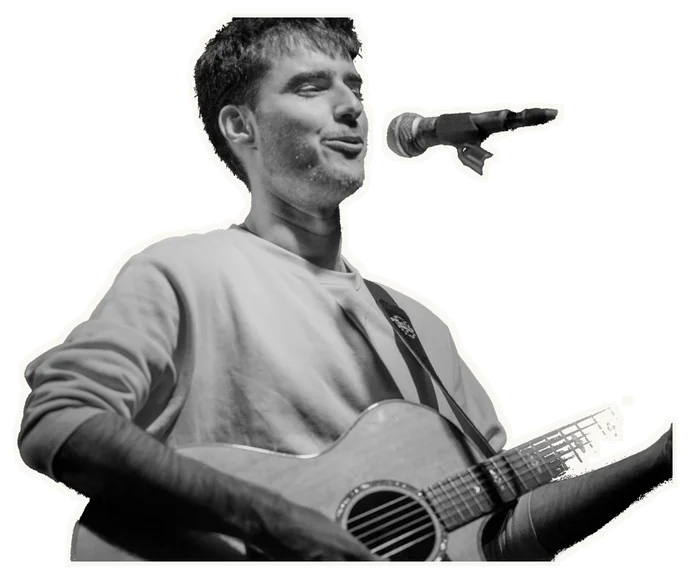
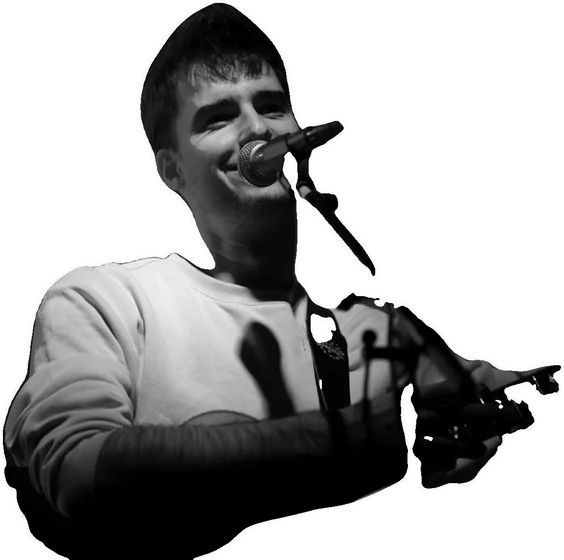
Venue: album line with Listen, single titles, tighter phone spacing, new stage photo
Claude-Session: https://claude.ai/code/session_01RtvS5V4MTS71N2RPp1urB8

diff --git a/index.html b/index.html
@@ -46,7 +46,7 @@
         <img class="bg" src="assets/venue/desktop/A1-bg.webp" alt="Paper diorama of a small venue at dusk: a brick wall covered in posters of Knaan Shabtay and a glowing open door" width="1920" height="1080">
         <img class="layer fg" data-l="A1-fg" src="assets/venue/desktop/A1-fg.webp" alt="">
       </div></div>
-      <div class="hero-type"><p class="name">Knaan Shabtay</p><h1>Teaching paper birds to fly</h1></div>
+      <div class="hero-type"><p class="name">Knaan Shabtay</p><h1>Teaching Paper Birds to Fly</h1><p class="album">New album out now · <button type="button" class="listen" data-rec="tpbtf">Listen</button></p></div>
       <p class="cue">Scroll ↓</p>
     </section>
     <!-- S2 Inside = Videos -->
@@ -55,7 +55,7 @@
         <img class="bg" src="assets/venue/desktop/A2-bg.webp" alt="Paper theatre stage with soft light cones and a paper crowd" loading="lazy" width="1920" height="1080">
         <img class="layer mid" data-l="A2-hero-still" src="assets/venue/desktop/A2-hero-still.webp" alt="Knaan Shabtay singing with an acoustic guitar" loading="lazy">
         <div class="vpanel inplate"><div class="paper"></div><span class="tape l"></span><span class="tape r"></span>
-          <div class="in"><div><p class="kicker">Videos</p><h2 class="h1">Videos</h2></div><div class="player" data-player></div><div class="upnext" data-upnext></div></div>
+          <div class="in"><div><h2 class="h1">Videos</h2></div><div class="player" data-player></div><div class="upnext" data-upnext></div></div>
         </div>
         <div class="ink"></div>
       </div></div>
@@ -67,7 +67,7 @@
         <div class="board inplate rv" data-l="A3-board"><div class="bitbox" data-bit><div class="bit-row"><span>Bandsintown</span><a href="https://www.bandsintown.com/a/2039791-knaan-shabtay" target="_blank" rel="noopener">Follow on Bandsintown</a></div><div class="bit-slot"></div><div class="bit-fallback"><p>Tour dates load from Bandsintown.</p><small>Follow to hear about the next show.</small></div></div></div>
         <img class="layer fg" data-l="A3-fg" src="assets/venue/desktop/A3-fg.webp" alt="">
       </div></div>
-      <div class="card-title rv"><p class="kicker">Tour</p><h2 class="h1">Tour Dates</h2></div>
+      <div class="card-title rv"><h2 class="h1">Tour Dates</h2></div>
     </section>
     <!-- S4 Merch table = Music -->
     <section class="scene" id="s-music" data-origin="50% 60%" aria-label="Music">
@@ -77,7 +77,7 @@
         <button class="sleeve-hit" data-rec="lit" data-l="A4-lit" aria-label="Pick up Lost In Time"></button>
         <img class="layer fg" data-l="A4-fg" data-rec="tpbtf" src="assets/venue/desktop/A4-fg.webp" alt="Teaching Paper Birds To Fly, picked up off the table" style="pointer-events:auto;cursor:pointer">
       </div></div>
-      <div class="card-title rv"><p class="kicker">Music</p><h2 class="h1">Discography</h2><p class="small">Studio Albums · EP's and singles · Live Projects</p><div class="covers" data-covers></div></div>
+      <div class="card-title rv"><h2 class="h1">Discography</h2><p class="small">Studio Albums · EP's and singles · Live Projects</p><div class="covers" data-covers></div></div>
       <div class="spot-card rv" data-spot></div>
     </section>
     <!-- S5 Walking out = Contact -->
@@ -88,7 +88,7 @@
         <a class="flyer-hit" data-l="A5-flyer" href="https://www.bandsintown.com/a/2039791-knaan-shabtay" target="_blank" rel="noopener" aria-label="Next show: follow Knaan Shabtay on Bandsintown"></a>
         <img class="layer fg" data-l="A5-fg" src="assets/venue/desktop/A5-fg.webp" alt="">
       </div></div>
-      <div class="card-title rv"><p class="kicker">Contact</p><h2 class="h1">Contact</h2></div>
+      <div class="card-title rv"><h2 class="h1">Contact</h2></div>
       <div class="foot"><div class="socials"><a href="https://open.spotify.com/artist/2lmk0RtmkwgqdylSRGUCuy" target="_blank" rel="noopener" aria-label="Spotify"><svg viewBox="0 0 24 24" width="16" height="16" aria-hidden="true"><path d="M12 0C5.4 0 0 5.4 0 12s5.4 12 12 12 12-5.4 12-12S18.66 0 12 0zm5.521 17.34c-.24.359-.66.48-1.021.24-2.82-1.74-6.36-2.101-10.561-1.141-.418.122-.779-.179-.899-.539-.12-.421.18-.78.54-.9 4.56-1.021 8.52-.6 11.64 1.32.42.18.479.659.301 1.02zm1.44-3.3c-.301.42-.841.6-1.262.3-3.239-1.98-8.159-2.58-11.939-1.38-.479.12-1.02-.12-1.14-.6-.12-.48.12-1.021.6-1.141C9.6 9.9 15 10.561 18.72 12.84c.361.181.54.78.241 1.2zm.12-3.36C15.24 8.4 8.82 8.16 5.16 9.301c-.6.179-1.2-.181-1.38-.721-.18-.601.18-1.2.72-1.381 4.26-1.26 11.28-1.02 15.721 1.621.539.3.719 1.02.419 1.56-.299.421-1.02.599-1.559.3z"/></svg></a><a href="https://music.apple.com/il/artist/knaan-shabtay/950357713" target="_blank" rel="noopener" aria-label="Apple Music"><svg viewBox="0 0 24 24" width="16" height="16" aria-hidden="true"><path d="M23.994 6.124a9.23 9.23 0 00-.24-2.19c-.317-1.31-1.062-2.31-2.18-3.043a5.022 5.022 0 00-1.877-.726 10.496 10.496 0 00-1.564-.15c-.04-.003-.083-.01-.124-.013H5.986c-.152.01-.303.017-.455.026-.747.043-1.49.123-2.193.4-1.336.53-2.3 1.452-2.865 2.78-.192.448-.292.925-.363 1.408-.056.392-.088.785-.1 1.18 0 .032-.007.062-.01.093v12.223c.01.14.017.283.027.424.05.815.154 1.624.497 2.373.65 1.42 1.738 2.353 3.234 2.801.42.127.856.187 1.293.228.555.053 1.11.06 1.667.06h11.03a12.5 12.5 0 001.57-.1c.822-.106 1.596-.35 2.295-.81a5.046 5.046 0 001.88-2.207c.186-.42.293-.87.37-1.324.113-.675.138-1.358.137-2.04-.002-3.8 0-7.595-.003-11.393zm-6.423 3.99v5.712c0 .417-.058.827-.244 1.206-.29.59-.76.962-1.388 1.14-.35.1-.706.157-1.07.173-.95.045-1.773-.6-1.943-1.536a1.88 1.88 0 011.038-2.022c.323-.16.67-.25 1.018-.324.378-.082.758-.153 1.134-.24.274-.063.457-.23.51-.516a.904.904 0 00.02-.193c0-1.815 0-3.63-.002-5.443a.725.725 0 00-.026-.185c-.04-.15-.15-.243-.304-.234-.16.01-.318.035-.475.066-.76.15-1.52.303-2.28.456l-2.325.47-1.374.278c-.016.003-.032.01-.048.013-.277.077-.377.203-.39.49-.002.042 0 .086 0 .13-.002 2.602 0 5.204-.003 7.805 0 .42-.047.836-.215 1.227-.278.64-.77 1.04-1.434 1.233-.35.1-.71.16-1.075.172-.96.036-1.755-.6-1.92-1.544-.14-.812.23-1.685 1.154-2.075.357-.15.73-.232 1.108-.31.287-.06.575-.116.86-.177.383-.083.583-.323.6-.714v-.15c0-2.96 0-5.922.002-8.882 0-.123.013-.25.042-.37.07-.285.273-.448.546-.518.255-.066.515-.112.774-.165.733-.15 1.466-.296 2.2-.444l2.27-.46c.67-.134 1.34-.27 2.01-.403.22-.043.442-.088.663-.106.31-.025.523.17.554.482.008.073.012.148.012.223.002 1.91.002 3.822 0 5.732z"/></svg></a><a href="https://www.youtube.com/@KnaanShabtay" target="_blank" rel="noopener" aria-label="YouTube"><svg viewBox="0 0 24 24" width="16" height="16" aria-hidden="true"><path d="M23.498 6.186a3.016 3.016 0 0 0-2.122-2.136C19.505 3.545 12 3.545 12 3.545s-7.505 0-9.377.505A3.017 3.017 0 0 0 .502 6.186C0 8.07 0 12 0 12s0 3.93.502 5.814a3.016 3.016 0 0 0 2.122 2.136c1.871.505 9.376.505 9.376.505s7.505 0 9.377-.505a3.015 3.015 0 0 0 2.122-2.136C24 15.93 24 12 24 12s0-3.93-.502-5.814zM9.545 15.568V8.432L15.818 12l-6.273 3.568z"/></svg></a><a href="https://www.instagram.com/knaanshabtay/" target="_blank" rel="noopener" aria-label="Instagram"><svg viewBox="0 0 24 24" width="16" height="16" aria-hidden="true"><path d="M7.0301.084c-1.2768.0602-2.1487.264-2.911.5634-.7888.3075-1.4575.72-2.1228 1.3877-.6652.6677-1.075 1.3368-1.3802 2.127-.2954.7638-.4956 1.6365-.552 2.914-.0564 1.2775-.0689 1.6882-.0626 4.947.0062 3.2586.0206 3.6671.0825 4.9473.061 1.2765.264 2.1482.5635 2.9107.308.7889.72 1.4573 1.388 2.1228.6679.6655 1.3365 1.0743 2.1285 1.38.7632.295 1.6361.4961 2.9134.552 1.2773.056 1.6884.069 4.9462.0627 3.2578-.0062 3.668-.0207 4.9478-.0814 1.28-.0607 2.147-.2652 2.9098-.5633.7889-.3086 1.4578-.72 2.1228-1.3881.665-.6682 1.0745-1.3378 1.3795-2.1284.2957-.7632.4966-1.636.552-2.9124.056-1.2809.0692-1.6898.063-4.948-.0063-3.2583-.021-3.6668-.0817-4.9465-.0607-1.2797-.264-2.1487-.5633-2.9117-.3084-.7889-.72-1.4568-1.3876-2.1228C21.2982 1.33 20.628.9208 19.8378.6165 19.074.321 18.2017.1197 16.9244.0645 15.6471.0093 15.236-.005 11.977.0014 8.718.0076 8.31.0215 7.0301.0839m.1402 21.6932c-1.17-.0509-1.8053-.2453-2.2287-.408-.5606-.216-.96-.4771-1.3819-.895-.422-.4178-.6811-.8186-.9-1.378-.1644-.4234-.3624-1.058-.4171-2.228-.0595-1.2645-.072-1.6442-.079-4.848-.007-3.2037.0053-3.583.0607-4.848.05-1.169.2456-1.805.408-2.2282.216-.5613.4762-.96.895-1.3816.4188-.4217.8184-.6814 1.3783-.9003.423-.1651 1.0575-.3614 2.227-.4171 1.2655-.06 1.6447-.072 4.848-.079 3.2033-.007 3.5835.005 4.8495.0608 1.169.0508 1.8053.2445 2.228.408.5608.216.96.4754 1.3816.895.4217.4194.6816.8176.9005 1.3787.1653.4217.3617 1.056.4169 2.2263.0602 1.2655.0739 1.645.0796 4.848.0058 3.203-.0055 3.5834-.061 4.848-.051 1.17-.245 1.8055-.408 2.2294-.216.5604-.4763.96-.8954 1.3814-.419.4215-.8181.6811-1.3783.9-.4224.1649-1.0577.3617-2.2262.4174-1.2656.0595-1.6448.072-4.8493.079-3.2045.007-3.5825-.006-4.848-.0608M16.953 5.5864A1.44 1.44 0 1 0 18.39 4.144a1.44 1.44 0 0 0-1.437 1.4424M5.8385 12.012c.0067 3.4032 2.7706 6.1557 6.173 6.1493 3.4026-.0065 6.157-2.7701 6.1506-6.1733-.0065-3.4032-2.771-6.1565-6.174-6.1498-3.403.0067-6.156 2.771-6.1496 6.1738M8 12.0077a4 4 0 1 1 4.008 3.9921A3.9996 3.9996 0 0 1 8 12.0077"/></svg></a><a href="https://www.tiktok.com/@knaanshabtay" target="_blank" rel="noopener" aria-label="TikTok"><svg viewBox="0 0 24 24" width="16" height="16" aria-hidden="true"><path d="M12.525.02c1.31-.02 2.61-.01 3.91-.02.08 1.53.63 3.09 1.75 4.17 1.12 1.11 2.7 1.62 4.24 1.79v4.03c-1.44-.05-2.89-.35-4.2-.97-.57-.26-1.1-.59-1.62-.93-.01 2.92.01 5.84-.02 8.75-.08 1.4-.54 2.79-1.35 3.94-1.31 1.92-3.58 3.17-5.91 3.21-1.43.08-2.86-.31-4.08-1.03-2.02-1.19-3.44-3.37-3.65-5.71-.02-.5-.03-1-.01-1.49.18-1.9 1.12-3.72 2.58-4.96 1.66-1.44 3.98-2.13 6.15-1.72.02 1.48-.04 2.96-.04 4.44-.99-.32-2.15-.23-3.02.37-.63.41-1.11 1.04-1.36 1.75-.21.51-.15 1.07-.14 1.61.24 1.64 1.82 3.02 3.5 2.87 1.12-.01 2.19-.66 2.77-1.61.19-.33.4-.67.41-1.06.1-1.79.06-3.57.07-5.36.01-4.03-.01-8.05.02-12.07z"/></svg></a><a href="https://www.facebook.com/knaanshabtaymusic" target="_blank" rel="noopener" aria-label="Facebook"><svg viewBox="0 0 24 24" width="16" height="16" aria-hidden="true"><path d="M9.101 23.691v-7.98H6.627v-3.667h2.474v-1.58c0-4.085 1.848-5.978 5.858-5.978.401 0 .955.042 1.468.103a8.68 8.68 0 0 1 1.141.195v3.325a8.623 8.623 0 0 0-.653-.036 26.805 26.805 0 0 0-.733-.009c-.707 0-1.259.096-1.675.309a1.686 1.686 0 0 0-.679.622c-.258.42-.374.995-.374 1.752v1.297h3.919l-.386 2.103-.287 1.564h-3.246v8.245C19.396 23.238 24 18.179 24 12.044c0-6.627-5.373-12-12-12s-12 5.373-12 12c0 5.628 3.874 10.35 9.101 11.647Z"/></svg></a></div><p class="copy">© 2026 Knaan Shabtay. All rights reserved.</p></div>
       <a class="back-start" href="#home" data-go="home">Back to the start ↑</a>
     </section>
@@ -97,23 +97,23 @@
   <!-- ============ phone: the same night as a vertical stack ============ -->
   <section class="mob msec" id="home" aria-label="Outside">
     <div class="mart"><img src="assets/venue/mobile/m-A1-plate.webp" alt="Paper diorama of a small venue at dusk: a brick wall covered in posters of Knaan Shabtay and a glowing open door" width="780" height="880"><img class="mfg" data-l="m-A1-fg" src="assets/venue/mobile/m-A1-fg.webp" alt=""><span class="count">01 / 05</span></div>
-    <div class="mcon"><p class="name">Knaan Shabtay</p><p class="sub">Teaching paper birds to fly</p><p class="scroll">Scroll ↓</p></div>
+    <div class="mcon"><p class="name">Knaan Shabtay</p><p class="sub">Teaching Paper Birds to Fly</p><p class="album">New album out now · <button type="button" class="listen" data-rec="tpbtf">Listen</button></p><p class="scroll">Scroll ↓</p></div>
   </section>
   <section class="mob msec" id="videos" aria-label="Videos">
     <div class="mart"><img src="assets/venue/mobile/m-A2-plate.webp" alt="Knaan Shabtay on a paper stage in front of a paper crowd" loading="lazy" width="780" height="670"><span class="count">02 / 05</span></div>
-    <div class="mcon reveal"><p class="kicker">Videos</p><h2 class="h1">Videos</h2><div class="player" data-player></div><div class="vrows" data-vrows></div></div>
+    <div class="mcon reveal"><h2 class="h1">Videos</h2><div class="player" data-player></div><div class="vrows" data-vrows></div></div>
   </section>
   <section class="mob msec" id="tour" aria-label="Tour">
     <div class="mart"><img src="assets/venue/mobile/m-A3-plate.webp" alt="Paper letterboard beside a small stage with a guitar" loading="lazy" width="780" height="640"><img class="mfg" data-l="m-A3-fg" src="assets/venue/mobile/m-A3-fg.webp" alt=""><span class="count">03 / 05</span></div>
-    <div class="mcon reveal"><p class="kicker">Tour</p><h2 class="h1">Tour Dates</h2><div class="bitbox" data-bit><div class="bit-row"><span>Bandsintown</span><a href="https://www.bandsintown.com/a/2039791-knaan-shabtay" target="_blank" rel="noopener">Follow on Bandsintown</a></div><div class="bit-slot"></div><div class="bit-fallback"><p>Tour dates load from Bandsintown.</p><small>Follow to hear about the next show.</small></div></div></div>
+    <div class="mcon reveal"><h2 class="h1">Tour Dates</h2><div class="bitbox" data-bit><div class="bit-row"><span>Bandsintown</span><a href="https://www.bandsintown.com/a/2039791-knaan-shabtay" target="_blank" rel="noopener">Follow on Bandsintown</a></div><div class="bit-slot"></div><div class="bit-fallback"><p>Tour dates load from Bandsintown.</p><small>Follow to hear about the next show.</small></div></div></div>
   </section>
   <section class="mob msec" id="music" aria-label="Music">
     <div class="mart"><img src="assets/venue/mobile/m-A4-plate.webp" alt="Paper merch table with a turntable and records" loading="lazy" width="780" height="640"><img class="mfg" data-l="m-A4-fg" src="assets/venue/mobile/m-A4-fg.webp" alt=""><span class="count">04 / 05</span></div>
-    <div class="mcon reveal"><p class="kicker">Music</p><h2 class="h1">Discography</h2><div class="spot" data-spot style="padding:0;background:none"></div><div class="rrows" data-rrows></div></div>
+    <div class="mcon reveal"><h2 class="h1">Discography</h2><div class="spot" data-spot style="padding:0;background:none"></div><div class="rrows" data-rrows></div></div>
   </section>
   <section class="mob msec" id="contact" aria-label="Contact">
     <div class="mart"><img src="assets/venue/mobile/m-A5-plate.webp" alt="Paper box office with a lit window and a night street" loading="lazy" width="780" height="700"><img class="mfg" data-l="m-A5-fg" src="assets/venue/mobile/m-A5-fg.webp" alt=""><span class="count">05 / 05</span></div>
-    <div class="mcon reveal"><p class="kicker">Contact</p><h2 class="h1">Contact</h2>
+    <div class="mcon reveal"><h2 class="h1">Contact</h2>
       <p style="font:600 .95rem/1 var(--sans);letter-spacing:.14em;text-transform:uppercase">Management &amp; Booking</p>
       <a class="mail" href="mailto:knaanshabtaymusic@gmail.com">knaanshabtaymusic@gmail.com</a>
       <a class="btn" href="mailto:knaanshabtaymusic@gmail.com">Send email →</a>

diff --git a/css/venue.css b/css/venue.css
@@ -74,6 +74,8 @@ img{display:block;max-width:100%}
 .card-title .small{font:italic 400 1rem/1.2 var(--serif);color:var(--muted);margin-top:6px}
 .hero-type{position:absolute;z-index:6;left:clamp(32px,6vw,110px);top:clamp(28px,6vh,70px)}
 .hero-type .name{font:600 clamp(1.6rem,2.4vw,2.3rem)/1 var(--sans);letter-spacing:.2em;text-transform:uppercase}
+.album{font:500 11px/1.4 var(--mono);letter-spacing:.16em;text-transform:uppercase;color:#5a554d;margin-top:14px}
+.album .listen{font:inherit;letter-spacing:inherit;text-transform:inherit;color:var(--sky);background:none;border:0;padding:0 0 2px;border-bottom:1px solid currentColor;cursor:pointer}
 .hero-type h1{font:italic 400 clamp(1.4rem,2vw,1.9rem)/1.2 var(--serif);color:#3f3b35;margin-top:8px}
 .cue{position:absolute;z-index:6;left:50%;bottom:22px;transform:translateX(-50%);font:500 10px/1 var(--mono);letter-spacing:.24em;text-transform:uppercase}
 .rail{position:fixed;z-index:20;right:18px;top:50%;transform:translateY(-50%);display:grid;gap:18px;justify-items:end}
@@ -187,11 +189,12 @@ img{display:block;max-width:100%}
   .mart .mfg{position:absolute;animation:par linear both;animation-timeline:view()}
   .mart .count{position:absolute;right:12px;bottom:18px;font:500 10px/1 var(--mono);letter-spacing:.16em;background:var(--card);padding:6px 8px}
   .mart .over{position:absolute;left:20px;top:22px}
-  .mcon{padding:24px 20px 44px;display:grid;gap:14px}
+  .mcon{padding:14px 20px 32px;display:grid;gap:12px}
+  .mcon .album{margin-top:0}
   .mcon .h1{font-size:38px}
   .mcon .name{font:600 24px/1 var(--sans);letter-spacing:.18em;text-transform:uppercase}
   .mcon .sub{font:italic 400 1.5rem/1.2 var(--serif);color:#3f3b35}
-  .mcon .scroll{font:500 10px/1 var(--mono);letter-spacing:.24em;text-transform:uppercase;justify-self:center;margin-top:2rem}
+  .mcon .scroll{font:500 10px/1 var(--mono);letter-spacing:.24em;text-transform:uppercase;justify-self:center;margin-top:1rem}
   .vrows,.rrows{display:grid}
   .vrow,.rrow{display:grid;grid-template-columns:96px minmax(0,1fr);gap:12px;align-items:center;text-align:left;padding:8px 0}
   .rrow{grid-template-columns:48px minmax(0,1fr);border-bottom:1px solid var(--line);padding:12px 0}

diff --git a/js/venue.js b/js/venue.js
@@ -10,7 +10,7 @@
 
   /* ---------- layer placement (1920×1080 plate space, from LAYERS-ASSETS.md) ---------- */
   const L = {
-    'A1-fg': [1180, 339, 135, 154], 'A2-hero-still': [880, 140, 690, 579], 'A3-fg': [1060, 250, 132, 146], 'A3-board': [555, 413, 521, 298],
+    'A1-fg': [1180, 339, 135, 154], 'A2-hero-still': [930, 159, 564, 560], 'A3-fg': [1060, 250, 132, 146], 'A3-board': [555, 413, 521, 298],
     'A4-fg': [1112, 281, 602, 600], 'A4-ffh': [481, 546, 380, 189], 'A4-lit': [739, 617, 387, 206],
     'A5-fg': [1415, 160, 115, 149], 'A5-card': [778, 460, 323, 244], 'A5-flyer': [305, 315, 296, 402],
     'm-A1-fg': [618, 276, 110, 125], 'm-A3-fg': [484, 148, 78, 86], 'm-A4-fg': [456, 166, 356, 355], 'm-A5-fg': [672, 103, 74, 96],
